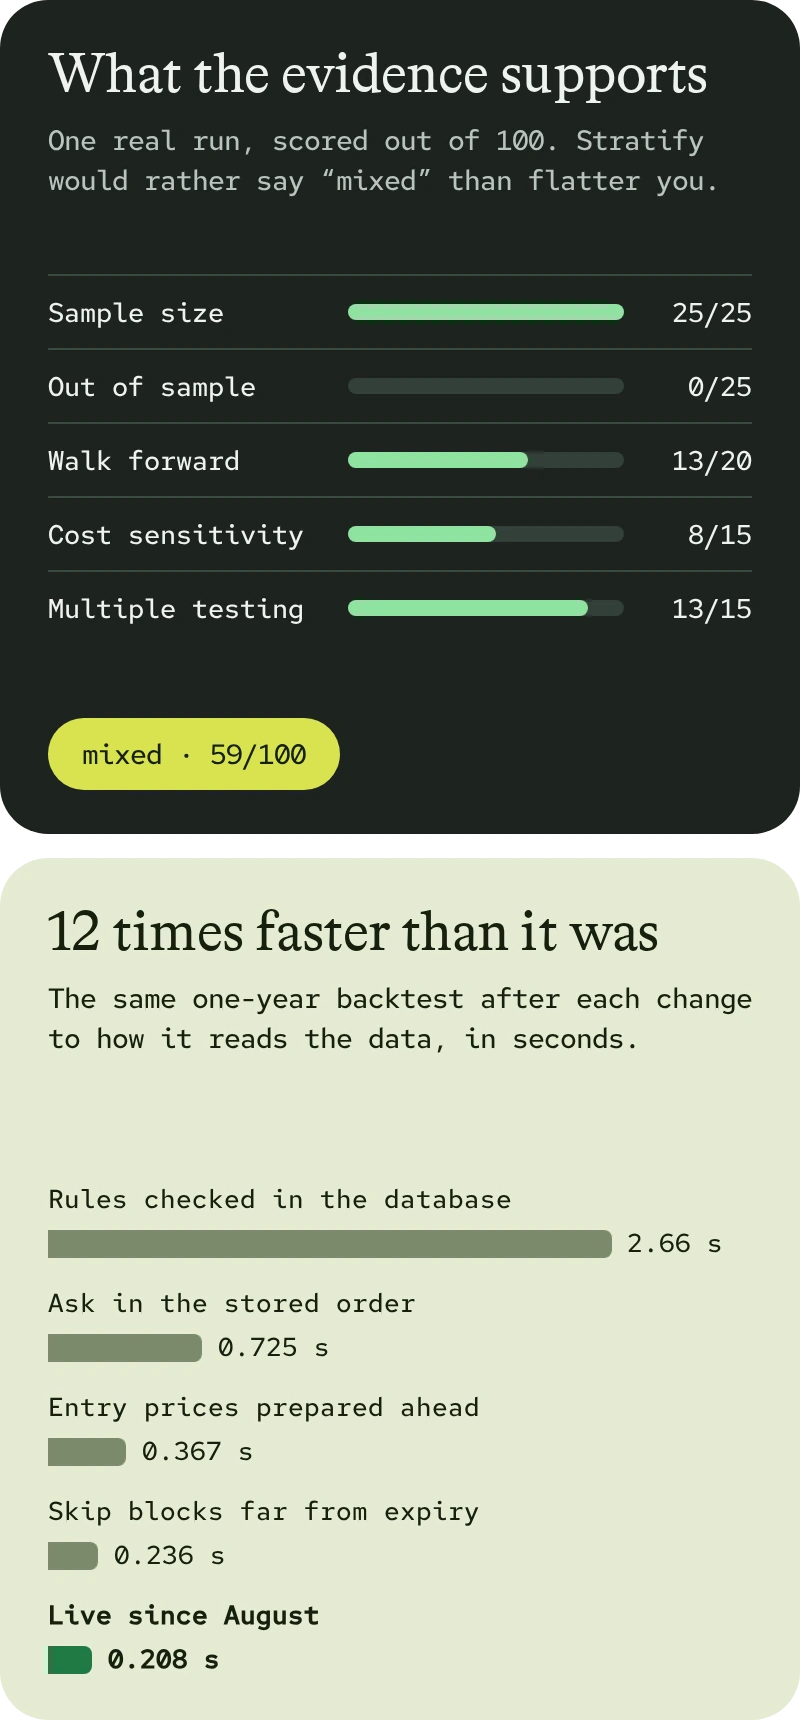
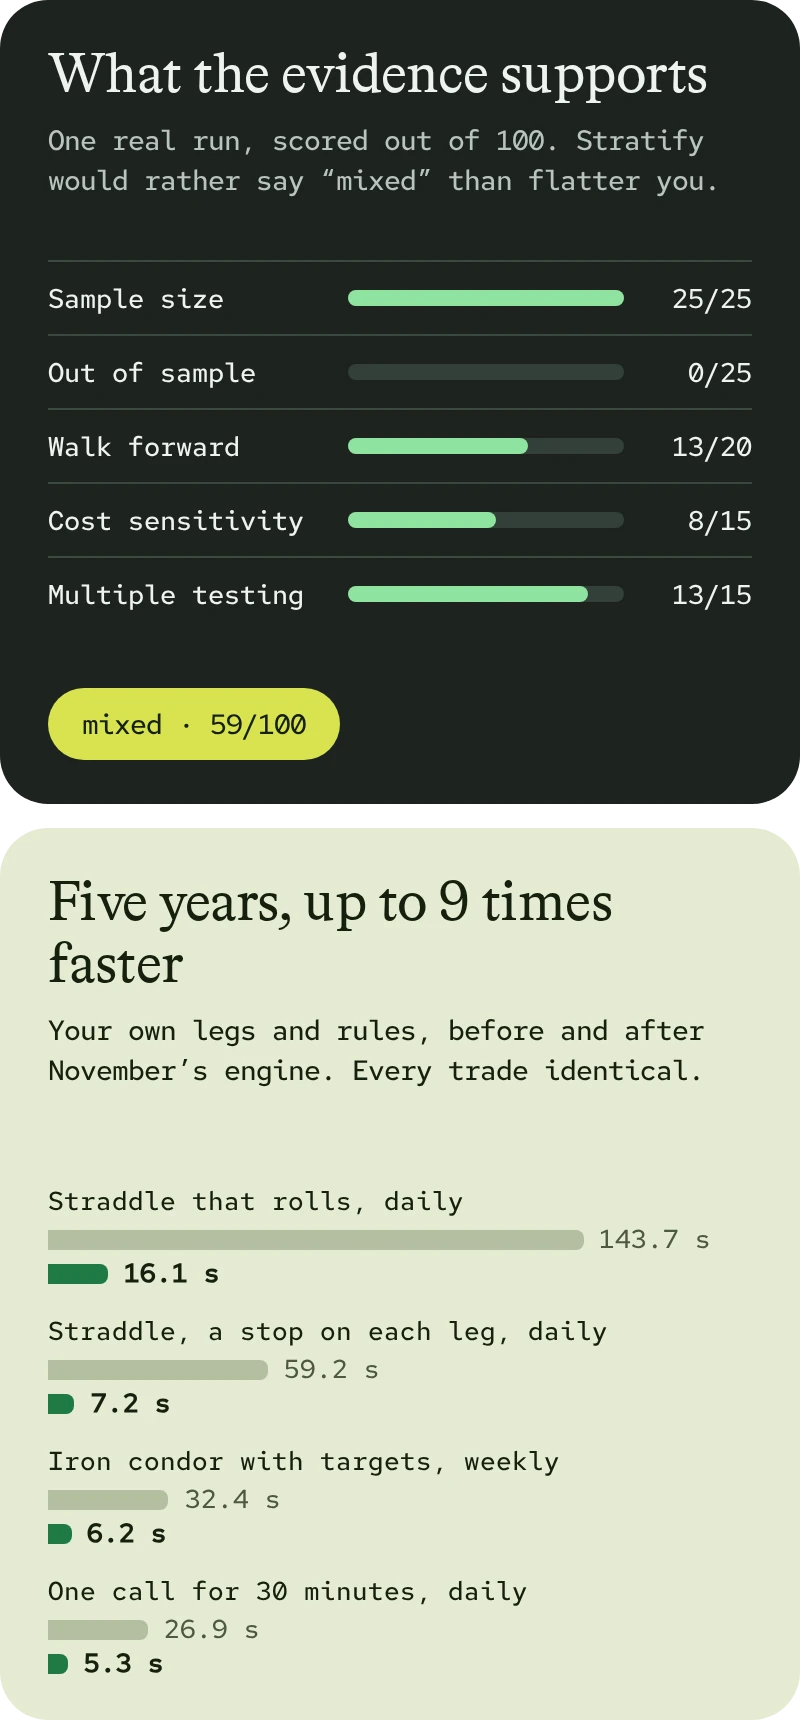
README: 392 million bars, five-year numbers, new graphics

diff --git a/README.md b/README.md
@@ -23,14 +23,14 @@ Describe an options strategy in plain words, in the assistant you already use. S
 > *Sell a 20-delta NIFTY strangle every Thursday at 09:30, stop out at 2× the credit, take
 > profit at 60%. Did it hold up out of sample?*
 
-It is an [MCP](https://modelcontextprotocol.io) server, so it works in ChatGPT, Claude, Gemini, Claude Code, Codex, Gemini CLI, OpenCode and anything else that speaks MCP. This repository is the code behind the hosted service at **[stratify.aeon-labs.site](https://stratify.aeon-labs.site)**, published so you can read exactly how every number was produced. The service holds 372 million one-minute option bars, about 289 million for NIFTY and 83 million for SENSEX. The market data is not here and never leaves the service: you send a strategy, you get results.
+It is an [MCP](https://modelcontextprotocol.io) server, so it works in ChatGPT, Claude, Gemini, Claude Code, Codex, Gemini CLI, OpenCode and anything else that speaks MCP. This repository is the code behind the hosted service at **[stratify.aeon-labs.site](https://stratify.aeon-labs.site)**, published so you can read exactly how every number was produced. The service holds **392 million one-minute option bars**: 308 million for NIFTY and 85 million for SENSEX. The market data is not here and never leaves the service: you send a strategy, you get results.
 
 <picture>
   <source media="(max-width: 600px)" srcset=".github/readme/honesty-phone.webp">
-  <img src=".github/readme/honesty.webp" width="100%" alt="What the evidence supports, for one real run: sample size 25 of 25, out of sample 0 of 25, walk forward 13 of 20, cost sensitivity 8 of 15, multiple testing 13 of 15; mixed, 59 of 100. Beside it, the same one-year backtest after each change to how data is read: 2.66, 0.725, 0.367, 0.236 and 0.208 seconds.">
+  <img src=".github/readme/honesty.webp" width="100%" alt="What the evidence supports, for one real run: sample size 25 of 25, out of sample 0 of 25, walk forward 13 of 20, cost sensitivity 8 of 15, multiple testing 13 of 15; mixed, 59 of 100. Beside it, five-year backtests before and after November's engine: a straddle that rolls 143.7 to 16.1 seconds, a straddle with a stop on each leg 59.2 to 7.2, an iron condor with targets 32.4 to 6.2, one call for 30 minutes 26.9 to 5.3.">
 </picture>
 
-<sub>Speeds are engine time, measured in August 2026 on the 8-core server, one request at a time. A whole answer takes longer: the run in the film above took 6.7 seconds.</sub>
+<sub>Measured in November 2026 on the 8-core server. Presets are quicker: a five-year weekly strangle with a 2× stop (259 trades) takes 0.85 seconds, the median of 22 runs with caching off. That is engine time; the run in the film above took 6.7 seconds end to end.</sub>
 
 ## Connect in one minute
 
@@ -93,6 +93,11 @@ paste your key once.
 
 ## What it covers
 
+<picture>
+  <source media="(max-width: 600px)" srcset=".github/readme/coverage-phone.webp">
+  <img src=".github/readme/coverage.webp" width="100%" alt="392,591,142 one-minute option bars, month by month. NIFTY from January 2019 to October 2026, free from November 2021. SENSEX from August 2023 to October 2026, free from November 2025; no SENSEX data before August 2023.">
+</picture>
+
 | | Free | Paid |
 |---|---|---|
 | **NIFTY** options, 1-minute | 1 Nov 2021 – 31 Oct 2026 | 1 Jan 2019 – 31 Oct 2026 |
@@ -109,8 +114,16 @@ only for now. SENSEX is served through the preset structures (`short_strangle`,
 `iron_condor`, `iron_fly`, `credit_spread`, `long_option`), because the open form's entry
 gates read a daily market-state table that exists only in NIFTY's database so far.
 
-Free tier limits: 100 backtests an hour and 1,000 other calls an hour, per account. The
-windows are a property of the tier (`engine/spec.py`, `TIER_WINDOWS`), enforced twice: by
+Free tier limits, per account: up to 100 backtests and 1,000 other calls an hour, two
+backtests at once, and 60 CPU-seconds an hour, which a run of heavy five-year custom
+strategies reaches first. When the service is busy a backtest waits its turn for up to
+20 seconds instead of being refused.
+
+With everyone asking for five years and nobody pausing, twenty people get 51 backtests a
+minute between them, none failing (24 Nov 2026). The serving data fits in memory, so the
+ceiling is CPU.
+
+The windows are a property of the tier (`engine/spec.py`, `TIER_WINDOWS`), enforced twice: by
 the spec validator and by a ClickHouse row policy (`data/schema/70_tiers.sql`,
 `71_tiers_symbol.sql`), so a bug in one cannot widen what a free key can read.
 
@@ -216,7 +229,7 @@ needs auth          every tools/call
 unauthenticated tools/call → HTTP 401 + WWW-Authenticate (never a 200 wrapping an error)
 stdio bridge    npx stratify-mcp        python client   pip install stratify-mcp
 market          NIFTY (NSE) and SENSEX (BSE) index options, India; 1-minute; free tier = five years of NIFTY, one year of SENSEX
-limits (free)   100 backtests/hour, 1,000 other calls/hour, per account
+limits (free)   up to 100 backtests/hour (60 CPU-seconds/hour), 1,000 other calls/hour, per account
 data egress     none — results only, never rows
 ```
 
@@ -240,9 +253,15 @@ the parts that most often hide a lie:
   methodology version that produced it, so a number you recorded last month is
   attributable when the model improves.
 
-The data is a licensed, cleaned, multi-year tick archive. It is the one thing this
+The data is a licensed, cleaned, multi-year archive of one-minute bars. It is the one thing this
 repository does not contain and cannot fetch; there is no route that returns rows, and a
 test asserts there never will be.
+
+## Read more
+
+- [Backtesting 392 million option bars your AI never sees](https://stratify.aeon-labs.site/guides/backtesting-372-million-option-bars-compute-to-data-mcp-server): the architecture, in thirteen pictures
+- [How to backtest options strategies with AI](https://stratify.aeon-labs.site/guides/how-to-backtest-options-strategies-with-ai): setup, prompts, and ten strategies over five years
+- [Where ChatGPT's backtest answer comes from](https://stratify.aeon-labs.site/guides/chatgpt-options-backtest-where-the-answer-comes-from): why the engine runs on a server and the AI only writes the spec
 
 ## Layout
 
